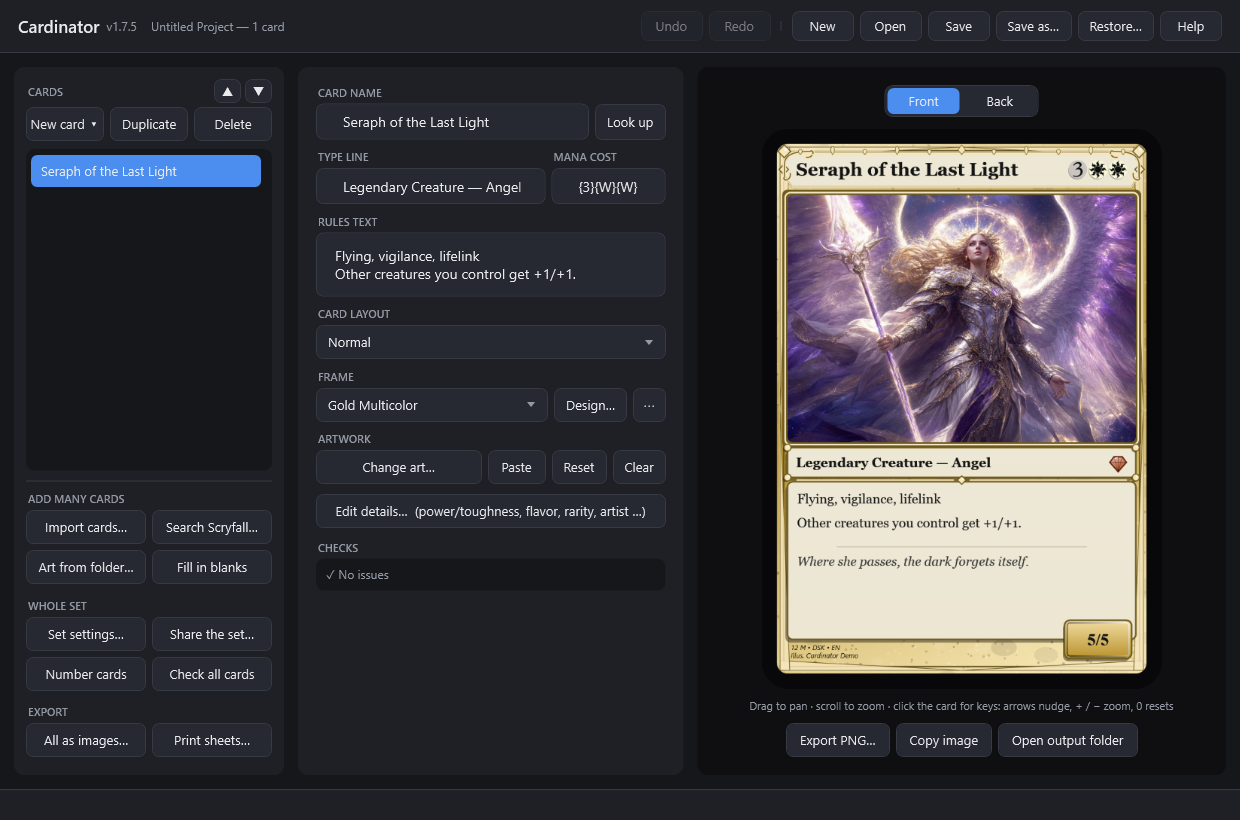
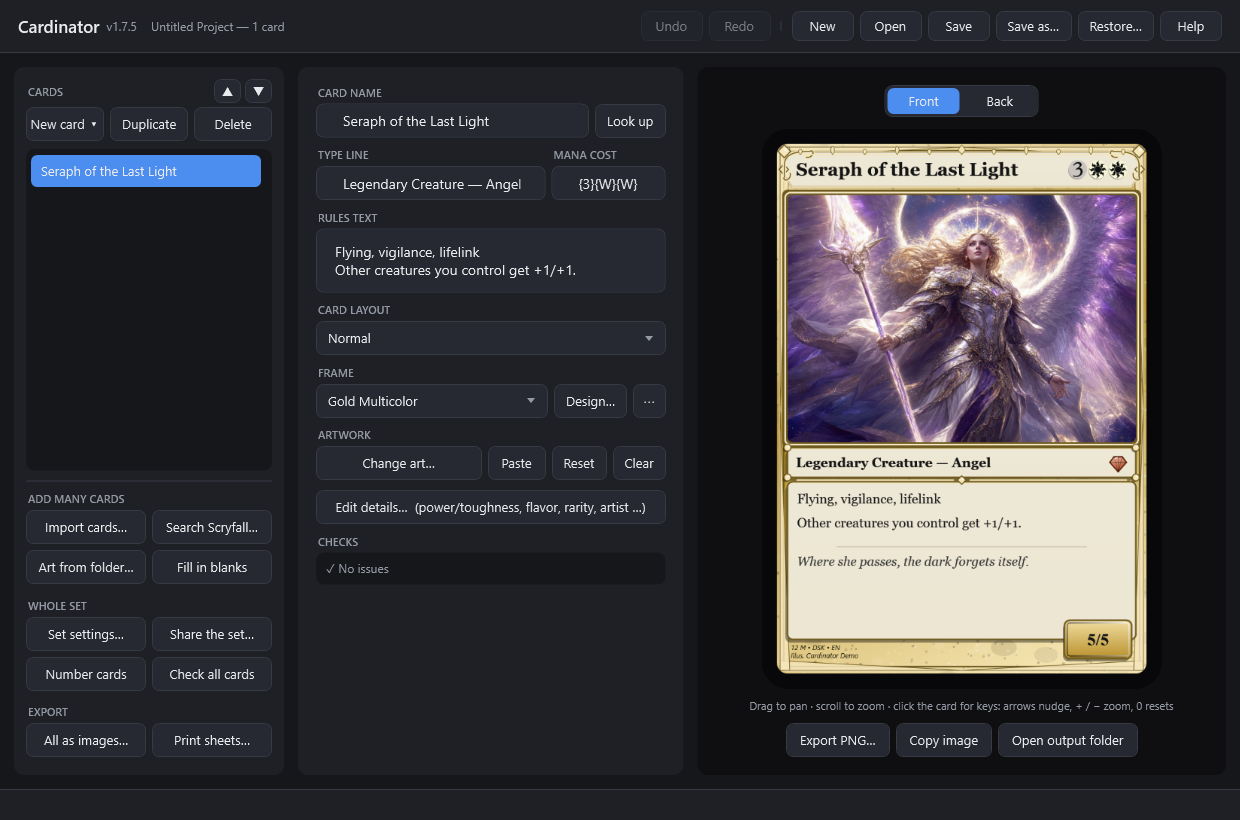
Laptop layout with room to spare: buttons and the editing column fit on any PC's fonts (1.7.5)
The 1.7.5 push failed its build check: on the build server, text measures a pixel taller, and at
1280x720 the sidebar buttons scrolled by 1px. The card list now gives way sooner (it keeps at least
120px instead of 150px), the main screen's text boxes match the buttons' height, and the laptop test
requires 8px to spare in both columns, so a layout that only just fits fails on any PC.

Claude-Session: https://claude.ai/code/session_01VhGah2Lqut8yXp3DQr5jjw

diff --git a/src/Cardinator/MainWindow.xaml b/src/Cardinator/MainWindow.xaml
@@ -139,7 +139,7 @@
             </Border>
 
             <!-- ===== Editor (simple flow) ===== -->
-            <Border Grid.Column="1" Background="{StaticResource Panel}" CornerRadius="10" Padding="18,18,6,12" Margin="14,0">
+            <Border Grid.Column="1" Background="{StaticResource Panel}" CornerRadius="10" Padding="18,18,6,6" Margin="14,0">
                 <!-- Scrolls when the window is too short for it all, so CHECKS and Export are never cut off. -->
                 <ScrollViewer x:Name="EditorScroll" VerticalScrollBarVisibility="Auto" HorizontalScrollBarVisibility="Disabled" Focusable="False" Visibility="{Binding HasCards, Converter={StaticResource BoolToVis}}">
                 <StackPanel IsEnabled="{Binding CanEditSelected}" Margin="0,0,12,0">
@@ -160,7 +160,7 @@
                          stats from Scryfall (even for a card with a different name), use the search inside Edit details…. -->
                     <Grid Margin="0,0,0,10">
                         <Grid.ColumnDefinitions><ColumnDefinition Width="*"/><ColumnDefinition Width="Auto"/></Grid.ColumnDefinitions>
-                        <TextBox x:Name="NameBox" Height="36" Text="{Binding EditedFace.Name, UpdateSourceTrigger=PropertyChanged}"
+                        <TextBox x:Name="NameBox" Height="34" Text="{Binding EditedFace.Name, UpdateSourceTrigger=PropertyChanged}"
                                  ToolTip="Your card's name — or a real card's: then Look up fills it in from Scryfall"/>
                         <Button x:Name="LookupBtn" Grid.Column="1" Content="Look up" Click="OnLookup" Margin="6,0,0,0" Padding="12,0"
                                 IsEnabled="{Binding NotBusy}"
@@ -171,12 +171,12 @@
                         <Grid.ColumnDefinitions><ColumnDefinition Width="*"/><ColumnDefinition Width="120"/></Grid.ColumnDefinitions>
                         <StackPanel>
                             <TextBlock Text="TYPE LINE" Style="{StaticResource SectionLabel}"/>
-                            <TextBox x:Name="TypeLineBox" Height="36" Text="{Binding EditedFace.TypeLine, UpdateSourceTrigger=PropertyChanged}"
+                            <TextBox x:Name="TypeLineBox" Height="34" Text="{Binding EditedFace.TypeLine, UpdateSourceTrigger=PropertyChanged}"
                                      ToolTip="Creature — Human Wizard, Instant, Legendary Artifact …"/>
                         </StackPanel>
                         <StackPanel Grid.Column="1" Margin="6,0,0,0">
                             <TextBlock Text="MANA COST" Style="{StaticResource SectionLabel}"/>
-                            <TextBox x:Name="ManaCostMainBox" Height="36" Text="{Binding EditedFace.ManaCost, UpdateSourceTrigger=PropertyChanged}"
+                            <TextBox x:Name="ManaCostMainBox" Height="34" Text="{Binding EditedFace.ManaCost, UpdateSourceTrigger=PropertyChanged}"
                                      ToolTip="Symbols in braces: {2}{W}{U}, {X}{R}, {G/U} …"/>
                         </StackPanel>
                     </Grid>
@@ -259,7 +259,7 @@
                         <Button Grid.Column="3" Content="Clear" Style="{StaticResource Ghost}" Click="OnClearArt" Margin="6,0,0,0"/>
                     </Grid>
 
-                    <Button x:Name="EditDetailsBtn" Content="Edit details…  (power/toughness, flavor, rarity, artist …)" Click="OnEditDetails" Margin="0,0,0,12"
+                    <Button x:Name="EditDetailsBtn" Content="Edit details…  (power/toughness, flavor, rarity, artist …)" Click="OnEditDetails" Margin="0,0,0,10"
                             ToolTip="Everything on this side of the card: name, cost, type, rules, power/toughness, flavor, rarity, set and artist — and a Scryfall lookup"/>
                     </StackPanel>
 

diff --git a/tests/Cardinator.Tests/Review9Tests.cs b/tests/Cardinator.Tests/Review9Tests.cs
@@ -359,6 +359,12 @@ public class Review9Tests
             Assert.True(main.BatchScroll.ScrollableHeight < 1, $"the sidebar buttons scroll by {main.BatchScroll.ScrollableHeight:F0}px");
             Assert.True(main.CardList.ActualHeight > 100, $"the card list is only {main.CardList.ActualHeight:F0}px");
             Assert.True(main.EditorScroll.ScrollableHeight < 1, $"the editing column scrolls by {main.EditorScroll.ScrollableHeight:F0}px");
+            // With room to spare: text measures a pixel or two taller on some PCs (it did on the build server), and a
+            // layout that only just fits here scrolls there.
+            double sidebarSpare = main.BatchScroll.MaxHeight - main.BatchScroll.ExtentHeight;
+            double editorSpare = main.EditorScroll.ViewportHeight - main.EditorScroll.ExtentHeight;
+            Assert.True(sidebarSpare >= 8, $"the sidebar buttons fit with only {sidebarSpare:F1}px to spare");
+            Assert.True(editorSpare >= 8, $"the editing column fits with only {editorSpare:F1}px to spare");
         });
 
     // --- 18: an empty set, frame faults, Save as ----------------------------------------------------------

diff --git a/src/Cardinator/MainWindow.xaml.cs b/src/Cardinator/MainWindow.xaml.cs
@@ -3300,8 +3300,9 @@ public partial class MainWindow : Window, INotifyPropertyChanged
     /// <summary>Set for off-screen/headless rendering so closing never shows the save prompt.</summary>
     public bool SuppressClosePrompt { get; set; }
 
-    /// <summary>The fewest pixels the card list keeps (about four cards): below that the BATCH buttons scroll instead.</summary>
-    internal const double MinCardListHeight = 150;
+    /// <summary>The fewest pixels the card list keeps (three cards or so): below that the BATCH buttons scroll instead. Low
+    /// enough that on a 1280x720 laptop every button still shows with room to spare, whatever the fonts measure.</summary>
+    internal const double MinCardListHeight = 120;
 
     /// <summary>Caps the BATCH buttons' height to what's left after the buttons above the card list and the list's
     /// minimum — on a short window (or a display scaled to 150%) they took it all, and the list showed one card, cut off.</summary>
